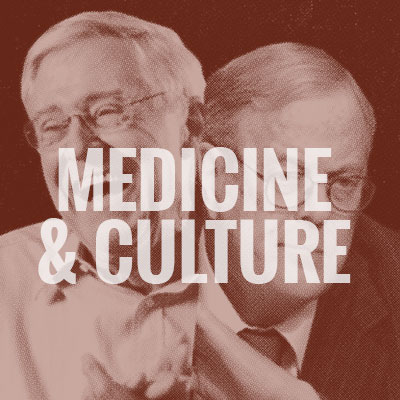
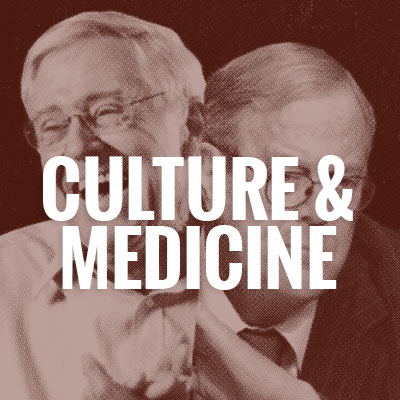
needs final images and back to top

diff --git a/index.html b/index.html
@@ -5,19 +5,13 @@
 
     <link rel="stylesheet" href="https://maxcdn.bootstrapcdn.com/bootstrap/3.2.0/css/bootstrap.min.css">
     <link href="css/style.css" rel="stylesheet" />
+    <link href='http://fonts.googleapis.com/css?family=Oswald:400,700,300' rel='stylesheet' type='text/css'>
 
 </head>
 
 <body>
 
-    <div class="container-fluid">
-        <section class="row">
-            <header class="col-md-8">
-                <h1>The Koch Network</h1>
-                <h4>Explore the vast and far-reaching influence of Charles and David Koch</h4>
-                <p>Lorem ipsum dolor sit amet, consectetur adipiscing elit. Maecenas bibendum orci arcu, non dapibus ligula pellentesque vel. Phasellus accumsan euismod ante, eu aliquet ante sodales ac. Vestibulum ultricies elit lectus, id tincidunt nibh facilisis vel. <strong>&#8212;Byline, date</strong></p>
-            </header>
-        </section>
+    <div class="container">
 
         <section class="row">
             <!-- Category nav -->
@@ -42,7 +36,7 @@
             <div class="category col-md-7" data-name="<%= category %>">
                 <h2><%= category %></h2>
                 <p><%= categoryBlurb %></p>
-                <h4>Groups and Organizations</h4>
+                <h6>Click a group to expand for more details.</h6>
                 <ul class="list-unstyled">
                     <% _.each(entities, function(entity) { %>
                         <li>
@@ -54,7 +48,7 @@
                         </li>
                     <% }); %>
                 </ul>
-                <a href="#category-nav"><span class="text-muted">Back to top</span></a>
+                <a href="#" class="jump"><span>Back to top</span></a>
             </div>
         </script>
 
@@ -64,24 +58,34 @@
                 <p><%= blurb %></p>
                 <ul class="list-unstyled">
                     <% if (donor1) { %>
-                        <strong>Koch-Affiliated Donors:</strong>
+                        <strong>Received money from:</strong>
                         <li>
-                            <a href="#" data-target="<%= donor1 %>" class="donor-link"><%= donor1 %></a>: <%= donor1amt %>
+                            <a href="#" data-target="<%= donor1 %>" class="donor-link"><%= donor1 %></a> <%= donor1amt %>
                         </li>
                     <% } %>
                     <% if (donor2) { %>
                         <li>
-                            <a href="#" data-target="<%= donor2 %>" class="donor-link"><%= donor2 %></a>: <%= donor2amt %>
+                            <a href="#" data-target="<%= donor2 %>" class="donor-link"><%= donor2 %></a> <%= donor2amt %>
                         </li>
                     <% } %>
                     <% if (donor3) { %>
                         <li>
-                            <a href="#" data-target="<%= donor3 %>" class="donor-link"><%= donor3 %></a>: <%= donor3amt %>
+                            <a href="#" data-target="<%= donor3 %>" class="donor-link"><%= donor3 %></a> <%= donor3amt %>
                         </li>
                     <% } %>
                     <% if (donor4) { %>
                         <li>
-                            <a href="#" data-target="<%= donor4 %>" class="donor-link"><%= donor4 %></a>: <%= donor4amt %>
+                            <a href="#" data-target="<%= donor4 %>" class="donor-link"><%= donor4 %></a> <%= donor4amt %>
+                        </li>
+                    <% } %>
+                    <% if (donor5) { %>
+                        <li>
+                            <a href="#" data-target="<%= donor5 %>" class="donor-link"><%= donor5 %></a> <%= donor5amt %>
+                        </li>
+                    <% } %>
+                    <% if (donor6) { %>
+                        <li>
+                            <a href="#" data-target="<%= donor6 %>" class="donor-link"><%= donor6 %></a> <%= donor6amt %>
                         </li>
                     <% } %>
                 </ul>

diff --git a/js/script.js b/js/script.js
@@ -56,6 +56,7 @@ var onDataLoaded = function(data) {
     }
     $('.category-link').on('click', onScrollTargetClick);
     $('.show-entity').on('click', onShowEntityClick);
+    $('.jump').on('click', onBackToTopClick);
 
     pymChild = new pym.Child();
     setTimeout(function(){pymChild.sendHeight();}, 100);
@@ -73,7 +74,8 @@ var onScrollTargetClick = function(e) {
 
     $target.click()
 
-    pymChild.sendMessage('scroll', offset.toString())  
+    pymChild.sendMessage('scroll', offset.toString()) 
+    pymChild.sendHeight();
 }
 
 /*
@@ -100,7 +102,6 @@ var onShowEntityClick = function(e) {
         $('.donor-link').on('click', onScrollTargetClick);
         pymChild.sendHeight();
     });
-
 }
 
 $(onDocumentReady);

diff --git a/css/style.css b/css/style.css
@@ -1,21 +1,25 @@
 
 
 #category-nav, #categories h2 {
-text-transform: capitalize;
+	text-transform: capitalize;
 }
 
-#category-nav li img {
-    -webkit-transition:all .2s ease-in-out;
-    -o-transition:all .2s ease-in-out;
-    transition:all .2s ease-in-out
-}
-
-#category-nav li img:hover {
-	opacity: .3;
+#categories h2, h4, h6 {
+	font-family: 'Oswald', sans-serif;
 }
 
 #category-nav li {
 padding: 1px;
+}
+
+#category-nav li img:hover {
+	opacity: .3;
+	padding: 0px;
+	margin: 0px;
+	-webkit-transition:all .2s ease-in-out;
+    -o-transition:all .2s ease-in-out;
+    transition:all .2s ease-in-out;
+}
 
 #categories li a {
     text-decoration: none;

diff --git a/shell.html b/shell.html
@@ -14,6 +14,7 @@
 
             $('html,body').animate({ 'scrollTop': (start + offset) }, 800);
         })
+        
     </script>
 </body>
 </html>
